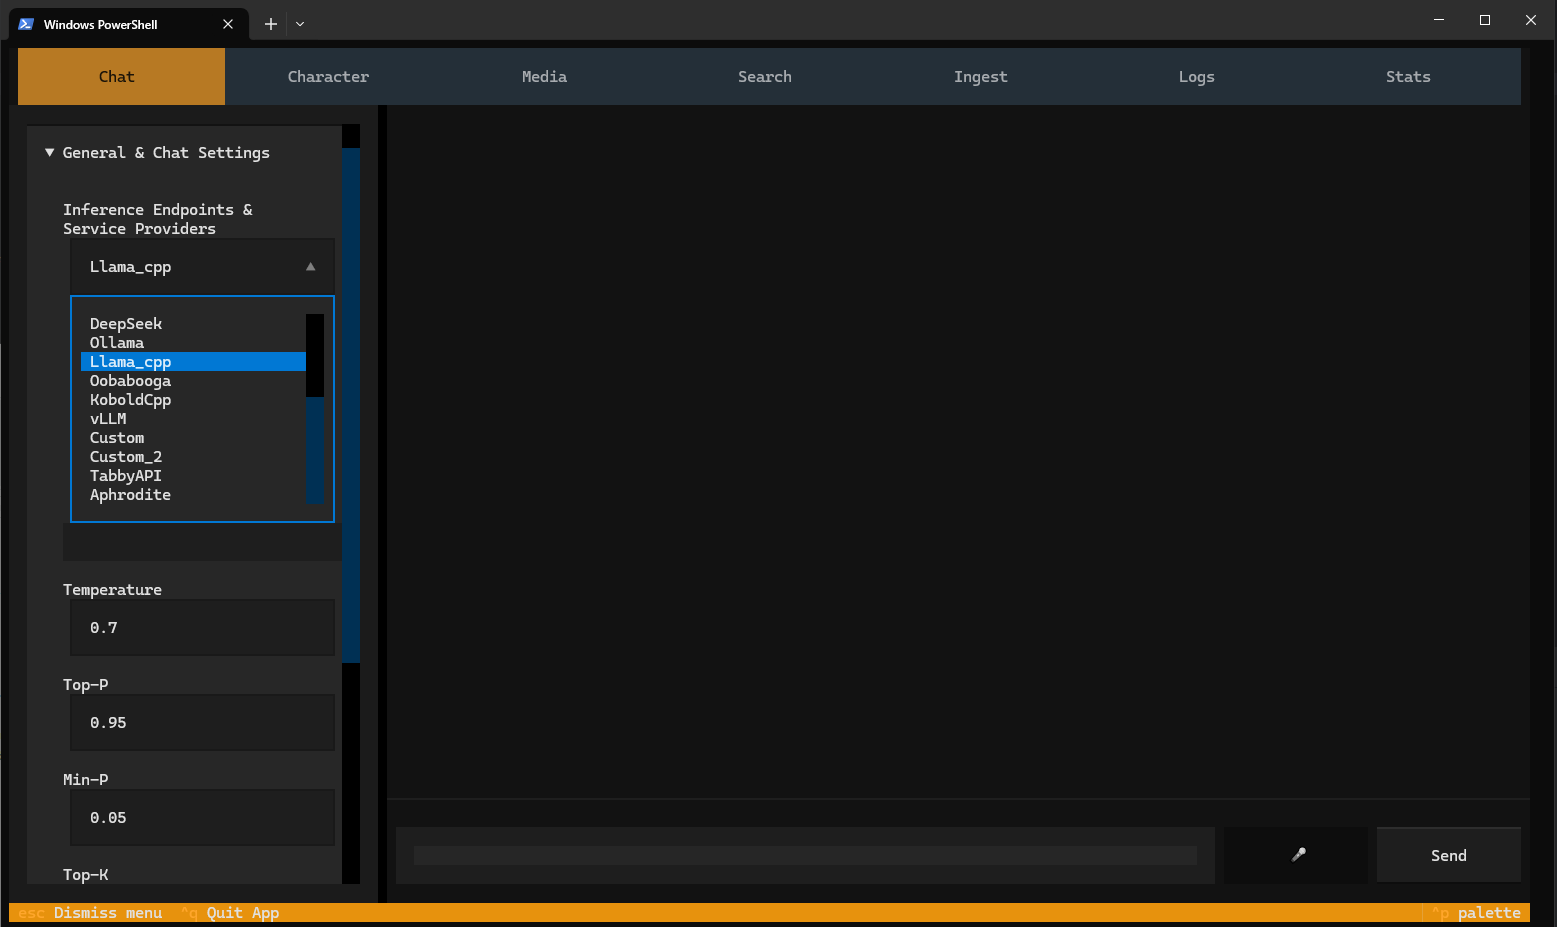
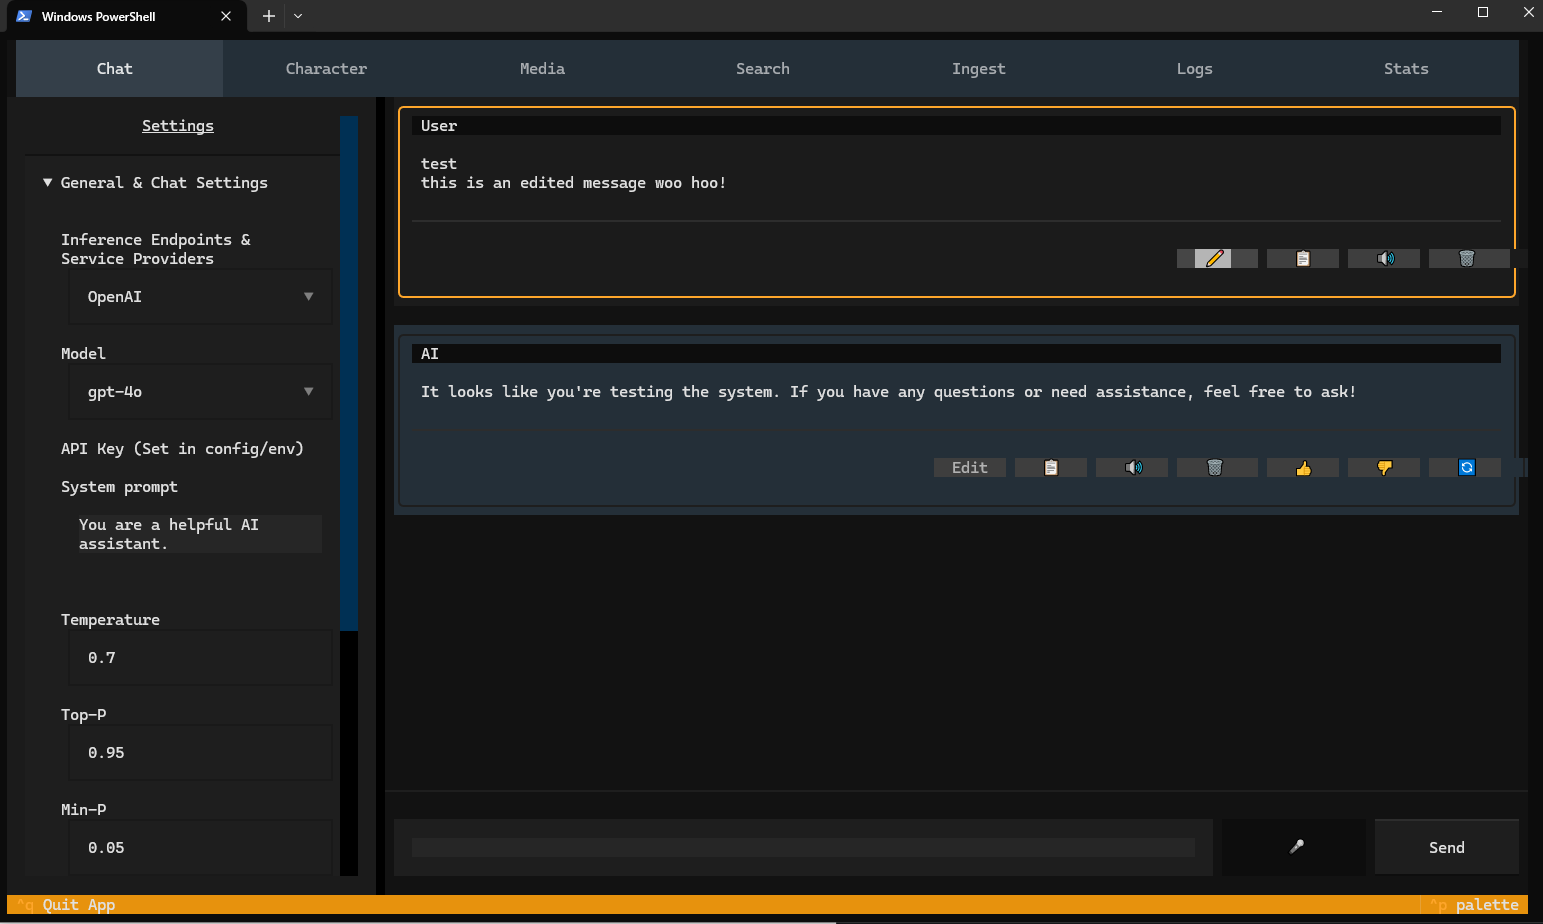
update screenshot/readme

diff --git a/README.md b/README.md
@@ -1,19 +1,22 @@
-# tldw TUI README
+# chatbook (tldw TUI) README
 
-# tldw TUI
+# chatbook (a Terminal User Interface)
 
-Current status: Not-working.
+Current status: Working ✓*
+- Little flickery if you select different tabs, have to select logs first and then it will properly show the placeholders.
+- Not all APIs work. Ollama is busted as an example.
+- Chat requests/edits/deletion of messages is in and working.
+- Placeholder buttons are in, and don't do anything (thumbs up/down, speaker)
 
-Crashes when selecting a new tab.Need to actually review things/do things manually.
-Need to modify call args to chat.py
-
-Launch: `python3 -m app`
+- UI is very much WIP.
+Launch: `python3 run.py` or `python3 -m app` 
 
 
-Default `config.toml` stored at `~/.config/tldw_cli/config.toml`
+Default `config.toml` stored at/read from `~/.config/tldw_cli/config.toml`
 
-Default user DB stored at `~/.share/tldw_cli/
+Default user DB stored at `~/.share/tldw_cli/` (Planned)
 
 
 Inspiration
-https://github.com/darrenburns/elia/tree/main/elia_chat/widgets
+- https://github.com/darrenburns/elia/tree/main/elia_chat
+- https://github.com/darrenburns/posting
